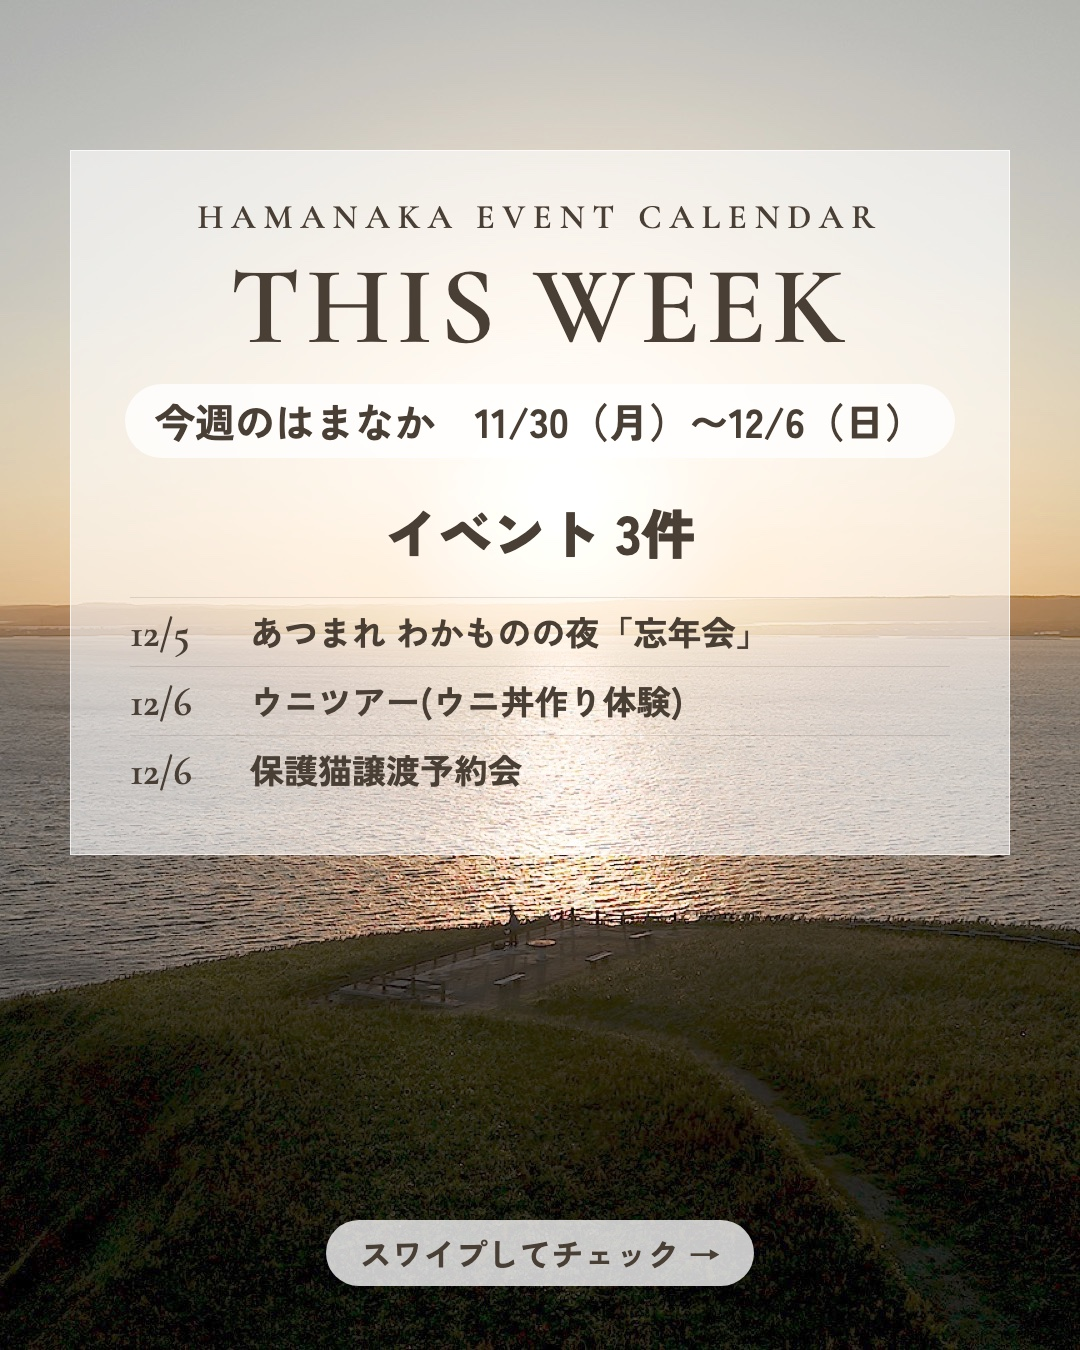
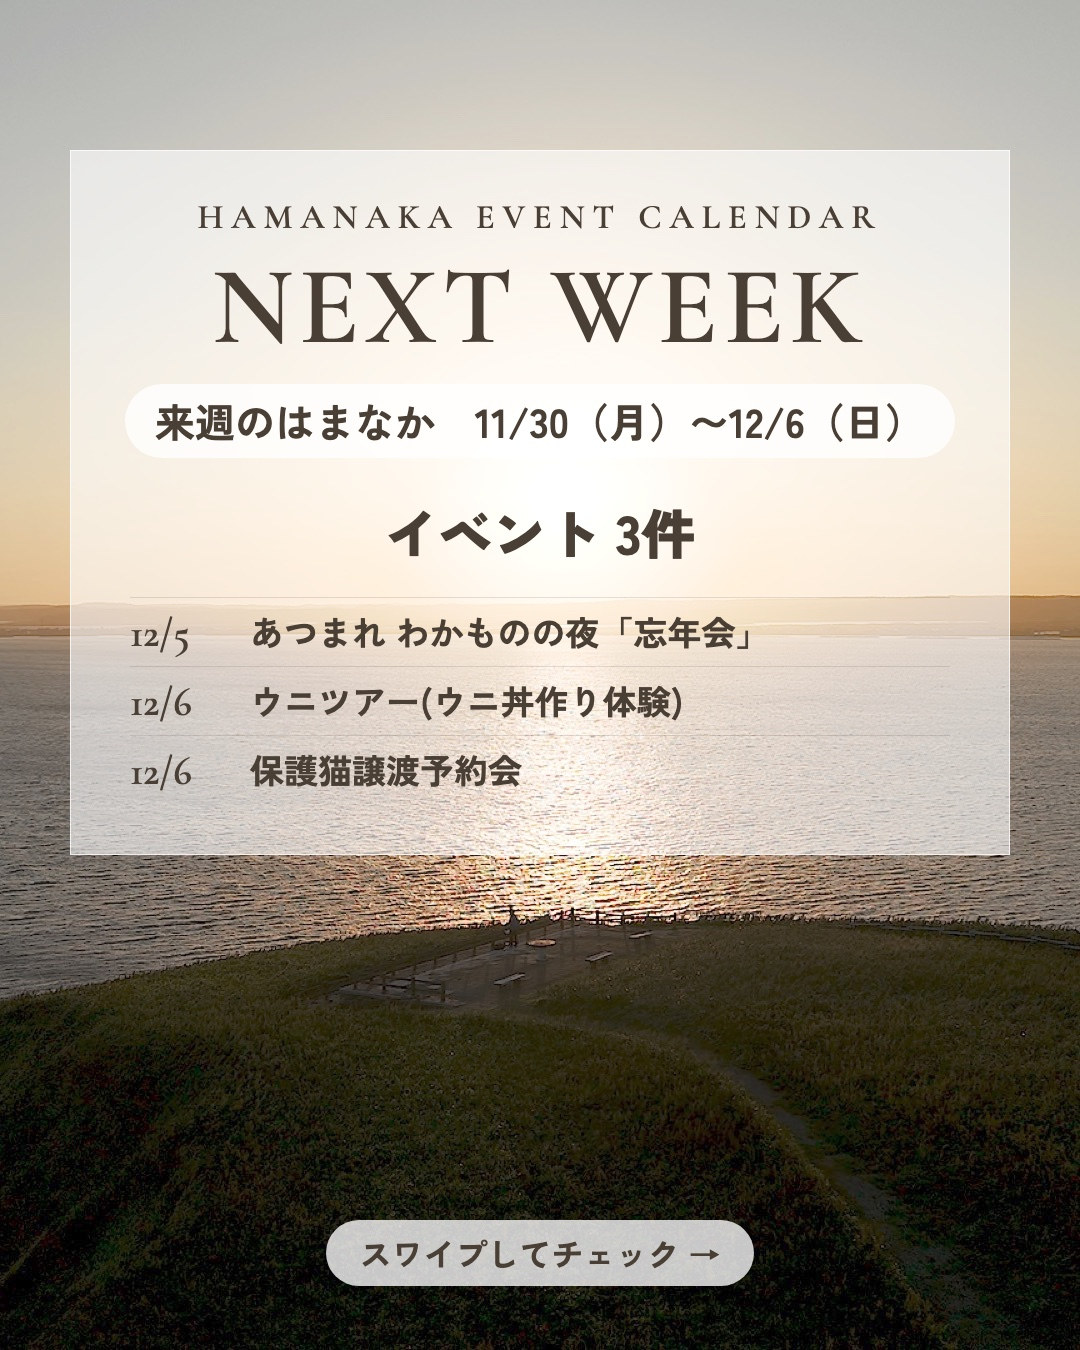
Instagram投稿の画像（2026-11-30の週）

Changed region(s): [[0.1833, 0.1867, 0.7944, 0.28], [0.1528, 0.28, 0.1833, 0.3422]]

diff --git a/ig/2026-11-30/index.html b/ig/2026-11-30/index.html
@@ -6,9 +6,9 @@ section{background:#fff;border-radius:14px;padding:14px;margin:14px 0}h2{font-si
 .story img{width:min(62vw,300px)}.carousel img{width:min(80vw,380px)}pre{white-space:pre-wrap;font-size:14px;background:#f7f5f2;padding:10px;border-radius:8px}</style></head>
 <body><h1>Instagram投稿の確認（11/30〜12/6）</h1>
 <p>よければスプレッドシート「Instagram投稿」タブの「投稿OK」にチェックしてください。カルーセルは横にスワイプして全部見られます。</p>
-<section><h2>11/30（月）7:00　ストーリーズ</h2><p>今週のイベント（3件）</p><div class="imgs story"><img src="s_week.jpg" loading="lazy"></div></section><section><h2>11/30（月）7:00　カルーセル</h2><p>今週のはまなか（3件・5枚）</p><div class="imgs carousel"><img src="c_01.jpg" loading="lazy"><img src="c_02.jpg" loading="lazy"><img src="c_03.jpg" loading="lazy"><img src="c_04.jpg" loading="lazy"><img src="c_05.jpg" loading="lazy"></div><pre>📅 今週のはまなか（11/30〜12/6）
+<section><h2>11/30（月）7:00　ストーリーズ</h2><p>来週のイベント（3件）</p><div class="imgs story"><img src="s_week.jpg" loading="lazy"></div></section><section><h2>11/30（月）7:00　カルーセル</h2><p>来週のはまなか（3件・5枚）</p><div class="imgs carousel"><img src="c_01.jpg" loading="lazy"><img src="c_02.jpg" loading="lazy"><img src="c_03.jpg" loading="lazy"><img src="c_04.jpg" loading="lazy"><img src="c_05.jpg" loading="lazy"></div><pre>📅 来週のはまなか（11/30〜12/6）
 
-浜中町で今週開かれるイベントは 3件 です✨
+浜中町で来週開かれるイベントは 3件 です✨
 スワイプしてチェックしてください👉
 
 ・12/5（土）あつまれ わかものの夜「忘年会」 18:30〜21:00（出入り自由）
